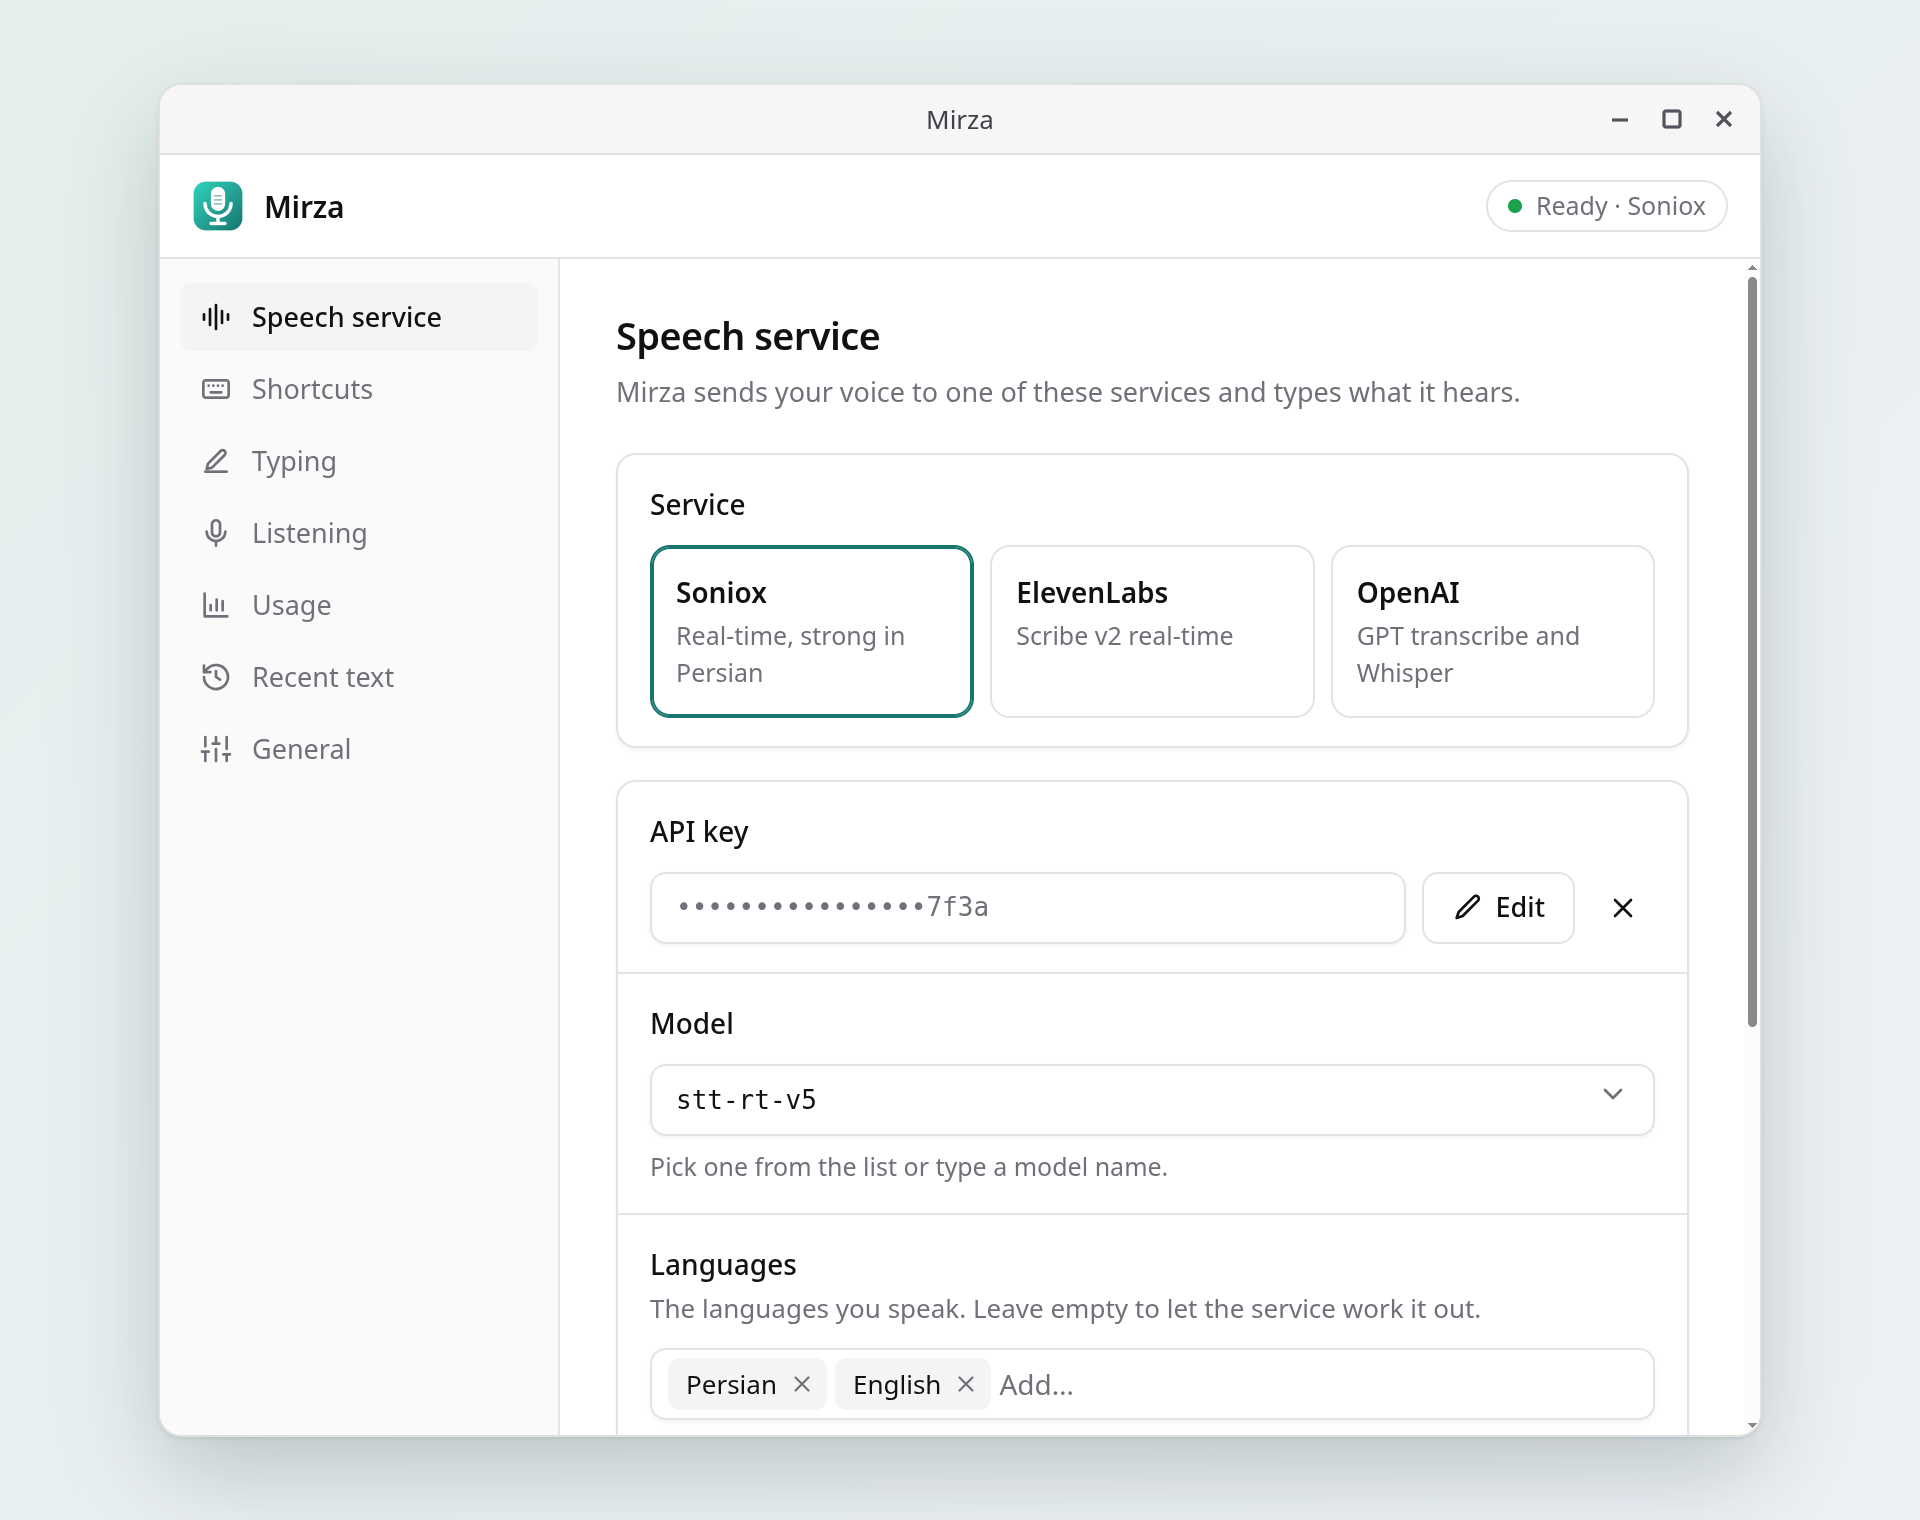
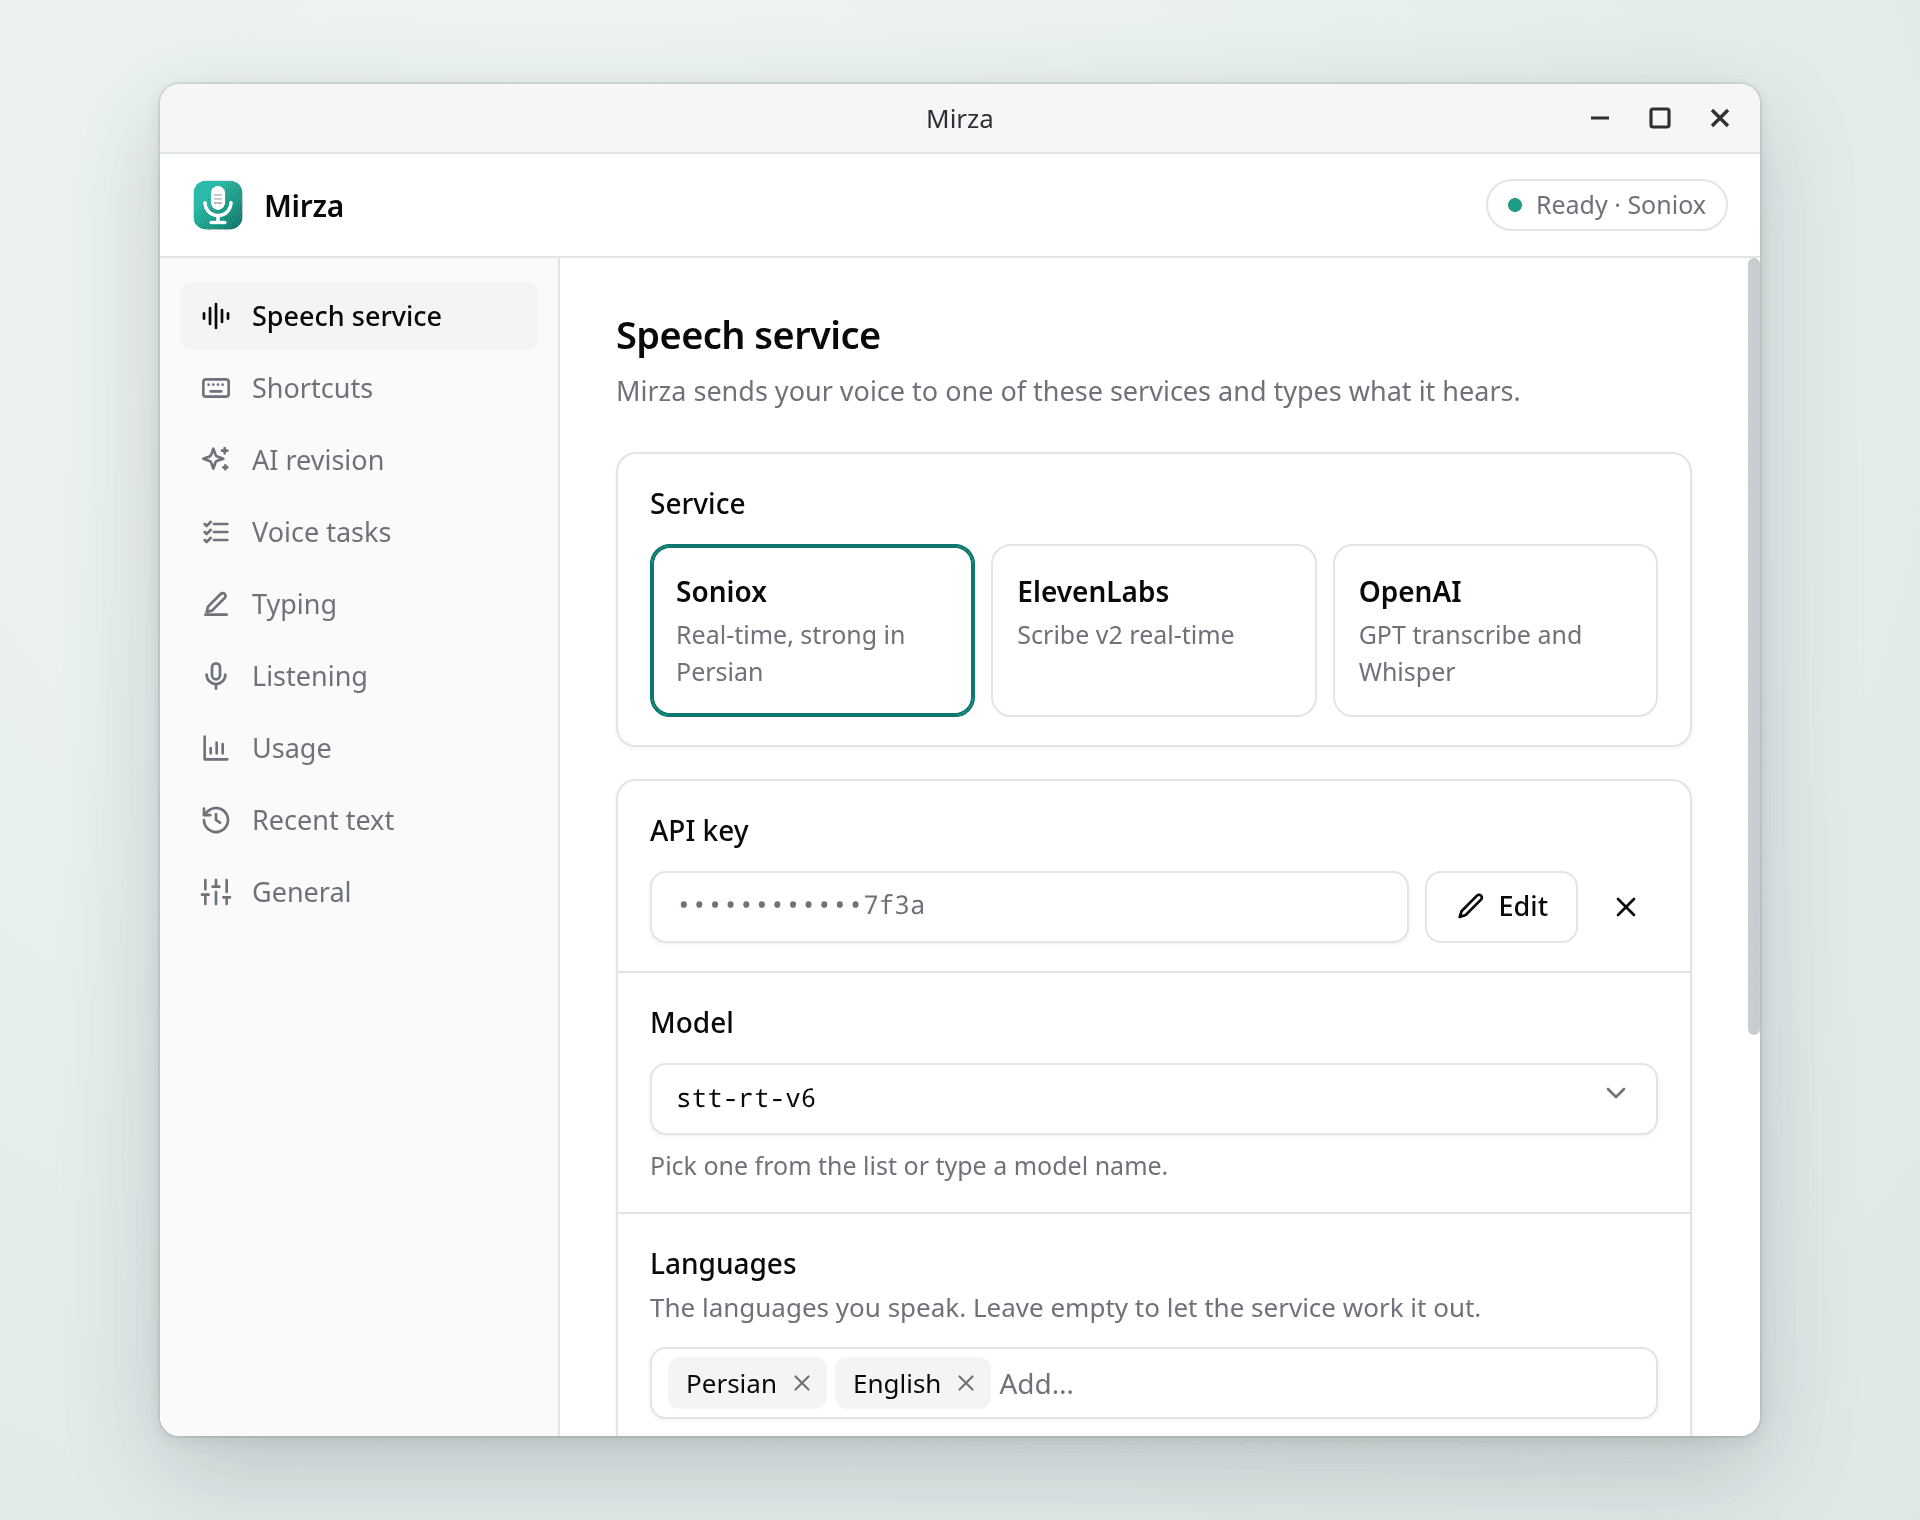
docs: voice tasks, Android and privacy in the README, new pictures
- Features: a voice tasks bullet, and a paragraph on the Android app
  (bubble, gestures, typing into any app, AI revision and tasks, the
  lock-screen queue) with three phone screenshots.
- Getting started: an optional step for AI revision and voice tasks.
- Privacy: voice tasks send text to the AI provider and the task to
  Google; tasks are kept on disk until Google has them, and the phone keeps
  its recent text and task queues in private storage.
- docs/screenshot.png: the current settings window (AI revision and Voice
  tasks in the sidebar), rendered the same way as before.

diff --git a/README.md b/README.md
@@ -55,6 +55,12 @@ the built-in voice typing of Windows and macOS.
   and half-spaces, without translating. It can also polish the wording, lightly
   or fully, with switches for plain words, formal Persian and digits. If the AI
   fails, what you said is typed as is. See [docs/ai-revision.md](docs/ai-revision.md).
+- **Voice tasks (optional):** a shortcut of its own (a gesture on the phone).
+  Say a task and Mirza saves it to Google Tasks with a short title, in the
+  list that fits what you said. A task with a clock time also becomes a Google
+  Calendar event, so Google reminds you. A notification has **Undo** and
+  **Edit**, and a task said offline waits and is saved once Google can be
+  reached. See [docs/voice-tasks.md](docs/voice-tasks.md).
 - **Tray and settings:** a tray icon that shows when it's recording, and a
   settings window with your usage and spend.
 - **Pauses** if you switch windows mid-sentence, so text never lands in the
@@ -64,6 +70,19 @@ the built-in voice typing of Windows and macOS.
 - **Tells you about new versions** (one check a day; can be turned off).
 - **Proxy support** (HTTP and SOCKS5). On Windows and macOS it uses the
   system proxy that VPN apps set, unless you enter another one.
+
+**On Android**, Mirza is a small bubble over every app; you choose its size,
+its opacity and whether it shows the logo. Tap it and speak, and the text goes
+into the field you are in, in any app. A double tap, a long press, volume down
+or Android's accessibility button can start dictation, dictation revised by AI,
+or a voice task. On the lock screen Mirza types nothing: a task you say there
+waits on the phone until you unlock it and confirm the task.
+
+<p align="center">
+<img src="docs/android-home.png" width="230" alt="Mirza's home screen on Android: Mirza is ready, the bubble sits at the edge, and the settings follow">
+<img src="docs/android-dictation.png" width="230" alt="Dictation in a messaging app: the bubble has typed a Persian sentence with English words in it">
+<img src="docs/android-task.png" width="230" alt="A voice task: a long press on the bubble opens the task panel, which shows what Mirza hears">
+</p>
 
 ## Install
 
@@ -119,16 +138,30 @@ both, and through the extra steps on Xiaomi phones.
 3. Press **Ctrl+Alt+H** in any app and start talking; press it again to stop.
    Or hold **Ctrl+Alt+J** while you talk. You can change both under
    **Shortcuts**.
+4. Optional: turn on **AI revision** with a key for an AI provider
+   ([guide](docs/ai-revision.md)), and set up **Voice tasks** once with your
+   Google account ([guide](docs/voice-tasks.md)).
 
 ## Privacy
 
-- **When it listens:** audio is recorded only while you dictate.
+- **When it listens:** audio is recorded only while you dictate or say a task.
 - **Where audio goes:** only to the speech service you picked.
 - **AI revision**, if you turn it on, sends the text (not the audio) to the AI
   provider you picked, or to your own server.
-- **Your API keys** stay on your computer, readable only by you.
-- **Your text** is kept in memory for the "Recent text" list and never saved
-  to disk.
+- **Voice tasks**, if you set them up, send the text to the AI provider you
+  chose for tasks, with the names of your task lists and the current date and
+  time, and then the task to your Google account (Google Tasks, and Google
+  Calendar for a task with a time).
+- **Your API keys** and the Google sign-in stay on your computer, readable only
+  by you. On the phone they are in the app's private storage; the Google
+  sign-in itself is kept by Google Play services.
+- **Your text:** on the computer, dictated text is kept in memory for the
+  "Recent text" list and never saved to disk. Voice tasks are different: each
+  task is saved in Mirza's data folder until Google has it, and the last 20
+  saved tasks stay there for Undo and Edit. On the phone, "Recent text", tasks
+  that wait and the lock-screen queue are kept in the app's private storage,
+  left out of backups; "Recent text" can be turned off. A task said on the lock
+  screen is sent nowhere until you unlock the phone and confirm it.
 
 ## Build from source
 
